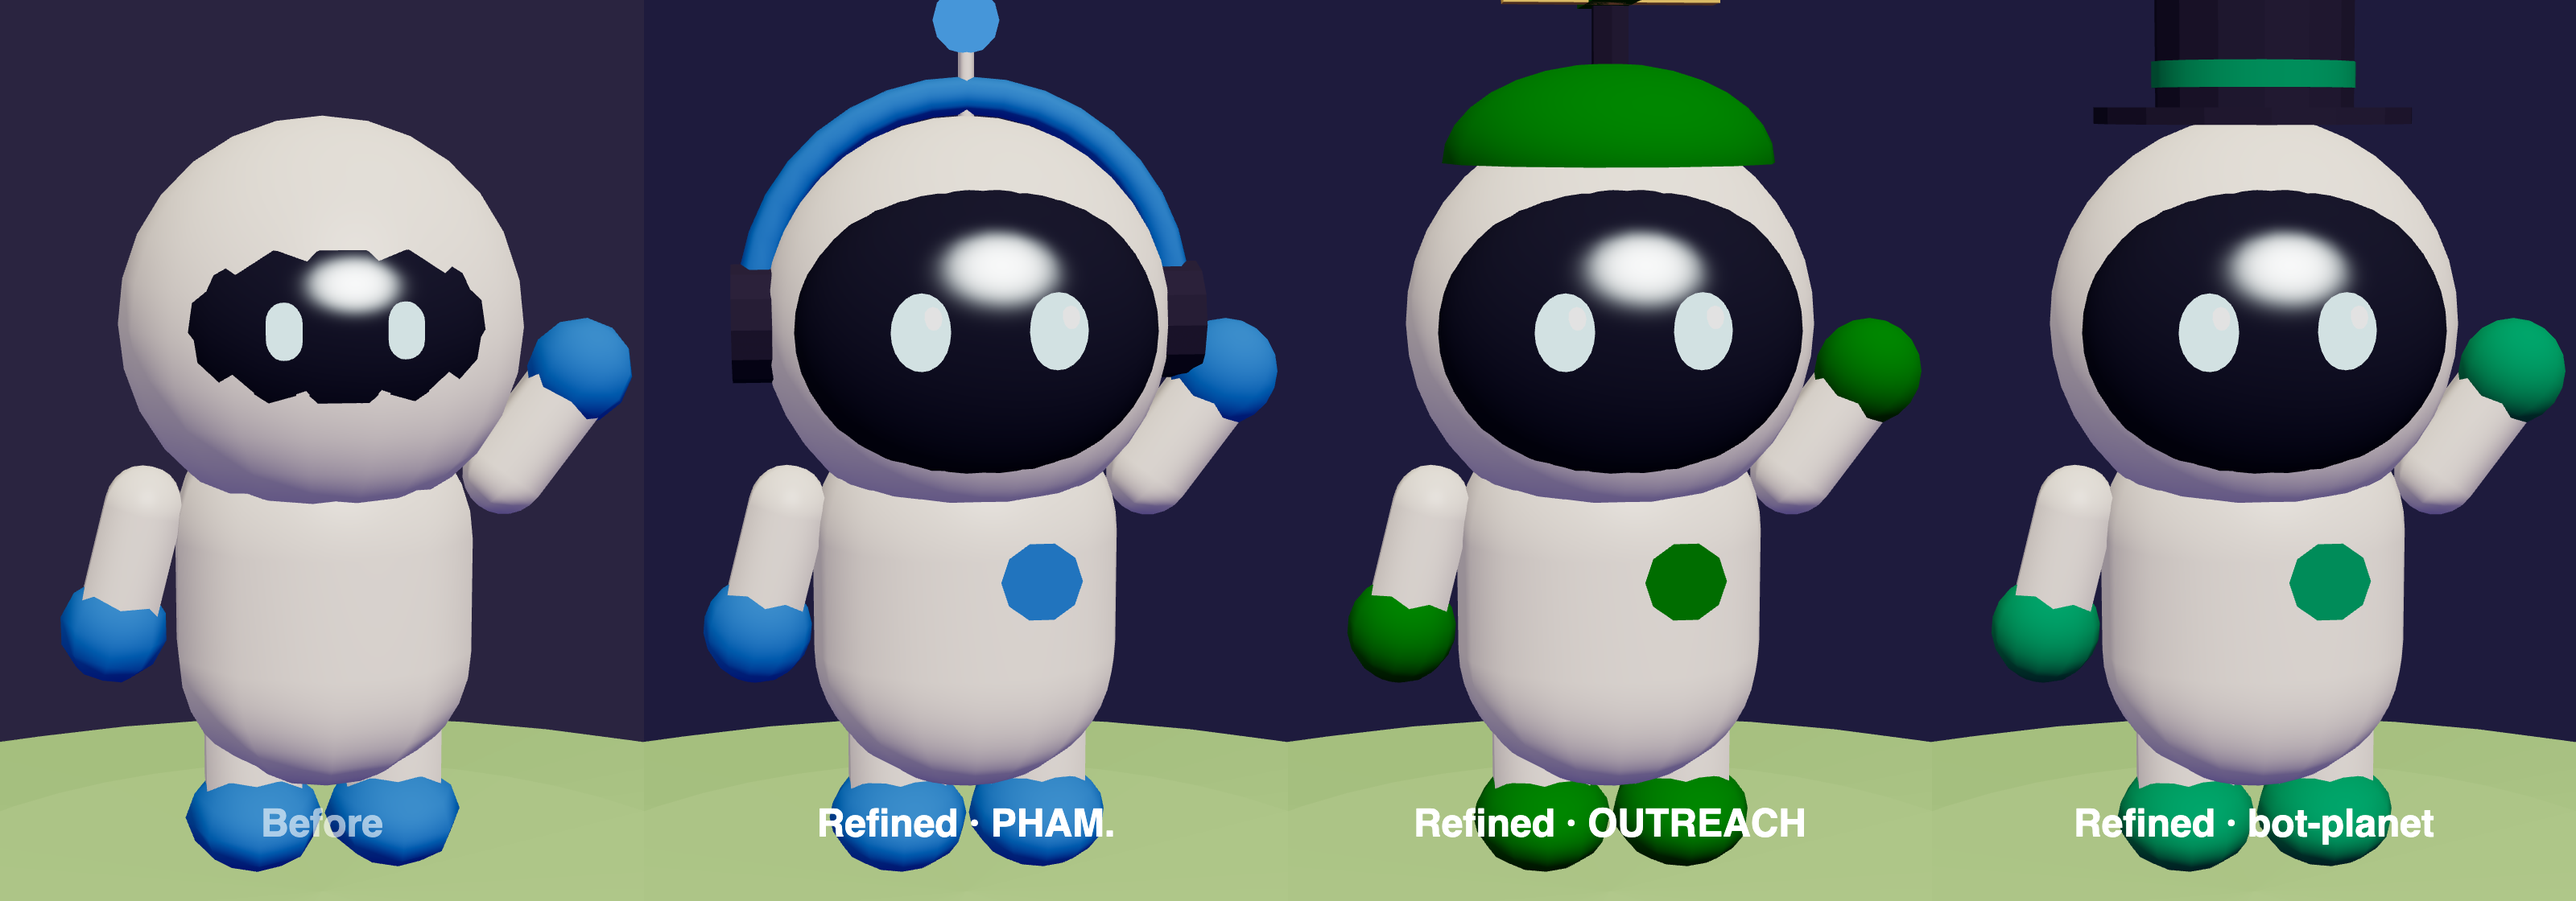
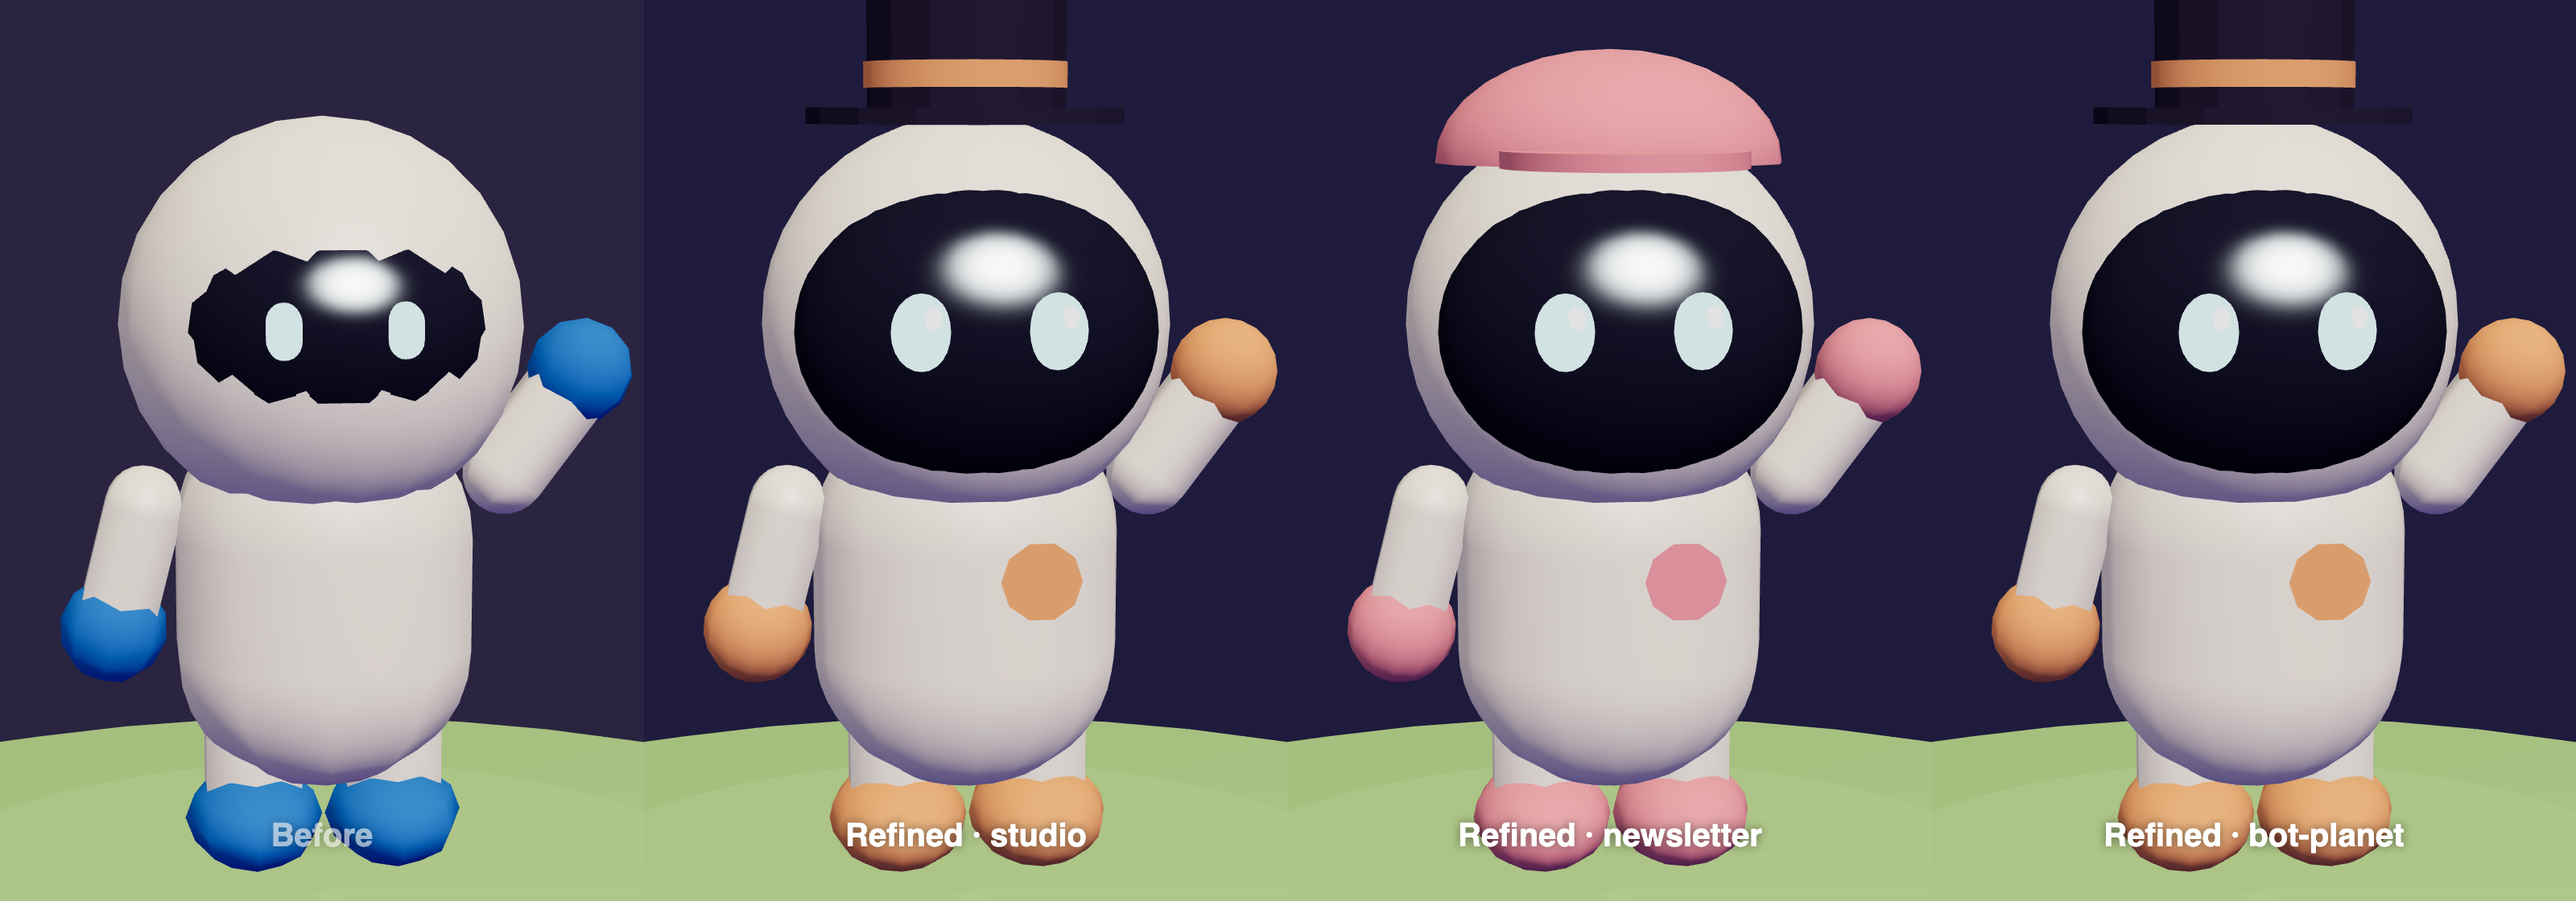
Public-ready: neutral demo crew, postcard footer and example names
Swap personal project and client names in the demo crew, postcard footer,
crew-manager starter projects, test pages and the README image for
neutral examples.

diff --git a/web/app.js b/web/app.js
@@ -291,7 +291,7 @@ function syncVillage(v) {
 /**
  * Cowork sessions outside a Cowork project are grouped by folder, which gives lots of tiny groups.
  * Fold each one-session folder group (that you haven't named) into the group owning its parent
- * folder, e.g. "Projects/Maria 01" → "Projects". Groups that end up with the same name share a house.
+ * folder, e.g. "Projects/Client A" → "Projects". Groups that end up with the same name share a house.
  */
 function foldCowork(groups) {
   const out = groups.map((g) => ({ ...g, sessions: [...g.sessions], folders: [...(g.folders || [])] }));
@@ -369,19 +369,19 @@ let current = [];
 const forceDemo = params.has('demo');
 
 const DEMO_CREW = [
-  ['phamcreative-site', 'Tighten the /helsinki hero spacing', 'working', 'Edit'],
-  ['medieval-rts', 'Pathfinding for cavalry units', 'help', ''],
-  ['taste-shift', 'Stage 4: drift timeline chart', 'working', 'Bash'],
-  ['sticker-smash', 'Render the promo video frames', 'done', ''],
-  ['linkedin-network', 'Cluster labels overlap fix', 'idle', ''],
+  ['portfolio-site', 'Tighten the hero spacing', 'working', 'Edit'],
+  ['tower-defense', 'Pathfinding for flying units', 'help', ''],
+  ['music-stats', 'Drift timeline chart', 'working', 'Bash'],
+  ['sticker-game', 'Render the promo video frames', 'done', ''],
+  ['network-map', 'Cluster labels overlap fix', 'idle', ''],
   ['bot-planet', 'Notch island + camp board', 'working', 'Task'],
-  ['pham-outreach', 'Draft Slush follow-ups', 'working', 'WebSearch'],
-  ['knowledge', 'Update pricing rules', 'done', ''],
-  ['castle-tracker', 'Fix the save-slot bug', 'working', 'Read'],
+  ['newsletter', 'Draft the conference follow-ups', 'working', 'WebSearch'],
+  ['notes', 'Tidy the reading list', 'done', ''],
+  ['garden-journal', 'Fix the save-slot bug', 'working', 'Read'],
 ];
 const DEMO_TOOLS = ['Edit', 'Bash', 'Read', 'Grep', 'WebSearch', 'TodoWrite', 'Task', 'Write', 'mcp__figma__get_screenshot', ''];
 const DEMO_DETAIL = {
-  Edit: 'hero.tsx', Bash: 'npm test', Read: 'README.md', Grep: '“notch”', WebSearch: '“slush 2026 exhibitors”',
+  Edit: 'hero.tsx', Bash: 'npm test', Read: 'README.md', Grep: '“notch”', WebSearch: '“conference 2026 speakers”',
   TodoWrite: 'Wiring the camp board', Task: 'Explore the repo', Write: 'village.mjs', mcp__figma__get_screenshot: 'figma: get_screenshot',
 };
 const DEMO_ASKS = ['Claude needs your permission to use Bash', 'Has a question for you', 'Wants you to approve a plan', 'Claude needs your permission to use Write'];

diff --git a/scripts/v4-test.html b/scripts/v4-test.html
@@ -47,9 +47,9 @@ const sats = createSatellites({ world: W.world, scene });
 const now = Date.now();
 const V = { projects: [
   { key: '/a/bot-planet', name: 'bot-planet', turns: 300, edits: 200, lastAt: now - 3600e3 },
-  { key: '/a/outreach', name: 'PHAM outreach', turns: 120, edits: 60, lastAt: now - 3 * 86400e3 },
+  { key: '/a/outreach', name: 'Newsletter', turns: 120, edits: 60, lastAt: now - 3 * 86400e3 },
   { key: '/a/garden', name: 'Garden journal', turns: 45, edits: 30, lastAt: now - 2 * 3600e3 },
-  { key: '/a/fact', name: 'Facturen', turns: 20, edits: 10, lastAt: now - 5 * 86400e3 },
+  { key: '/a/fact', name: 'Invoices', turns: 20, edits: 10, lastAt: now - 5 * 86400e3 },
   { key: '/a/secret', name: 'Secret thing', turns: 60, edits: 10, lastAt: now - 3600e3 },
 ] };
 let customObj = {};
@@ -67,8 +67,8 @@ const env = {
   seatDir: (i) => W.seats[Math.max(0, i)].dir, homeDir: (n) => village.homeOf(n), homeSpot: (n, i) => village.homeSpot(n, i),
 };
 const STAT = [
-  ['idle', 'bot-planet', now - 60e3], ['working', 'bot-planet', now - 60e3], ['help', 'PHAM outreach', now - 60e3],
-  ['done', 'Garden journal', now - 60e3], ['idle', 'Facturen', now - 30 * 60e3], ['working', 'Garden journal', now - 12 * 60e3],
+  ['idle', 'bot-planet', now - 60e3], ['working', 'bot-planet', now - 60e3], ['help', 'Newsletter', now - 60e3],
+  ['done', 'Garden journal', now - 60e3], ['idle', 'Invoices', now - 30 * 60e3], ['working', 'Garden journal', now - 12 * 60e3],
 ];
 const agents = STAT.map(([status, name, t], i) => {
   const a = new Astronaut({ id: 's' + i, name, status, tool: status === 'working' ? 'Read' : '', since: t, updated: t, subagents: [] }, env, offsetDir(W.campDir, i, 0.2));

diff --git a/scripts/v5-terrain.html b/scripts/v5-terrain.html
@@ -47,9 +47,9 @@ const sats = createSatellites({ world: W.world, scene });
 const now = Date.now();
 const V = { projects: [
   { key: '/a/bot-planet', name: 'bot-planet', turns: 300, edits: 200, lastAt: now - 3600e3 },
-  { key: '/a/outreach', name: 'PHAM outreach', turns: 120, edits: 60, lastAt: now - 3 * 86400e3 },
+  { key: '/a/outreach', name: 'Newsletter', turns: 120, edits: 60, lastAt: now - 3 * 86400e3 },
   { key: '/a/garden', name: 'Garden journal', turns: 45, edits: 30, lastAt: now - 2 * 3600e3 },
-  { key: '/a/fact', name: 'Facturen', turns: 20, edits: 10, lastAt: now - 5 * 86400e3 },
+  { key: '/a/fact', name: 'Invoices', turns: 20, edits: 10, lastAt: now - 5 * 86400e3 },
   { key: '/a/secret', name: 'Secret thing', turns: 60, edits: 10, lastAt: now - 3600e3 },
 ] };
 let customObj = {};
@@ -67,8 +67,8 @@ const env = {
   seatDir: (i) => W.seats[Math.max(0, i)].dir, homeDir: (n) => village.homeOf(n), homeSpot: (n, i) => village.homeSpot(n, i),
 };
 const STAT = [
-  ['idle', 'bot-planet', now - 60e3], ['working', 'bot-planet', now - 60e3], ['help', 'PHAM outreach', now - 60e3],
-  ['done', 'Garden journal', now - 60e3], ['idle', 'Facturen', now - 30 * 60e3], ['working', 'Garden journal', now - 12 * 60e3],
+  ['idle', 'bot-planet', now - 60e3], ['working', 'bot-planet', now - 60e3], ['help', 'Newsletter', now - 60e3],
+  ['done', 'Garden journal', now - 60e3], ['idle', 'Invoices', now - 30 * 60e3], ['working', 'Garden journal', now - 12 * 60e3],
 ];
 const agents = STAT.map(([status, name, t], i) => {
   const a = new Astronaut({ id: 's' + i, name, status, tool: status === 'working' ? 'Read' : '', since: t, updated: t, subagents: [] }, env, offsetDir(W.campDir, i, 0.2));

diff --git a/index.html b/index.html
@@ -296,7 +296,7 @@
   <p class="subs" id="c-subs"></p>
   <p class="cwd" id="c-cwd"></p>
   <div class="cmd" id="c-cmd-row"><code id="c-cmd"></code><button id="c-copy">Copy</button><button id="c-open" class="primary" hidden>Open ↗</button></div>
-  <div class="work" id="c-work-row" hidden><input id="c-work-label" maxlength="60" placeholder="What is it working on? e.g. South Africa proposal" /><button id="c-work-btn" class="primary">▶ Working on it</button></div>
+  <div class="work" id="c-work-row" hidden><input id="c-work-label" maxlength="60" placeholder="What is it working on? e.g. Client proposal" /><button id="c-work-btn" class="primary">▶ Working on it</button></div>
   <div class="move" id="c-move-row" hidden><label for="c-move">Move to project</label><select id="c-move"></select></div>
   <div class="actions" id="c-actions"></div>
 </div>

diff --git a/web/routines.js b/web/routines.js
@@ -59,7 +59,7 @@ export function nextRun(expr, tz, from = Date.now()) {
 }
 
 // ── wording ──────────────────────────────────────────────────────────
-export const shortName = (n) => String(n).replace(/^PHAM\s+(Outreach|Rhythm)\s*[:—-]\s*/i, '').replace(/\s*\(.*\)\s*$/, '');
+export const shortName = (n) => String(n).replace(/^[^:—]{2,24}\s+(Outreach|Rhythm)\s*[:—-]\s*/i, '').replace(/\s*\(.*\)\s*$/, '');
 const hhmm = (t) => new Date(t).toLocaleTimeString([], { hour: '2-digit', minute: '2-digit' });
 const DAY = ['Sun', 'Mon', 'Tue', 'Wed', 'Thu', 'Fri', 'Sat'];
 /** "weekdays · 09:00, 14:00" in *your* local time, read off the next fires. */

diff --git a/web/refined.html b/web/refined.html
@@ -44,8 +44,8 @@ function before() {
 
 const cells = [
   { label: 'Before', make: () => before() },
-  { label: 'Refined · PHAM.', data: { id: 'a', name: 'PHAM.', status: 'idle' } },
-  { label: 'Refined · OUTREACH', data: { id: 'b', name: 'OUTREACH', status: 'idle' } },
+  { label: 'Refined · studio', data: { id: 'a', name: 'studio', status: 'idle' } },
+  { label: 'Refined · newsletter', data: { id: 'b', name: 'newsletter', status: 'idle' } },
   { label: 'Refined · bot-planet', data: { id: 'c', name: 'bot-planet', status: 'idle' } },
 ];
 const labels = [];

diff --git a/scripts/landmarks-test.html b/scripts/landmarks-test.html
@@ -47,7 +47,7 @@ const controls = new OrbitControls(camera, renderer.domElement);
 
 // 5 fake plots spread around the camp, one per theme
 const NAMES = [
-  ['PHAM outreach', '#3987e5'], ['Proposals', '#d95926'], ['bot-planet', '#199e70'], ['Facturen', '#c98500'], ['Garden journal', '#d55181'],
+  ['Newsletter', '#3987e5'], ['Proposals', '#d95926'], ['bot-planet', '#199e70'], ['Invoices', '#c98500'], ['Garden journal', '#d55181'],
 ];
 const plots = [];
 let tries = 0;

diff --git a/web/postcard.js b/web/postcard.js
@@ -226,7 +226,7 @@ export async function makePostcard({ renderer, scene, camera, logbook = null, pa
   g.textAlign = 'center';
   g.fillStyle = 'rgba(255, 255, 255, 0.42)';
   g.font = font(600, 24);
-  g.fillText('made with Claude · PHAM. Creative', W / 2, H - 34);
+  g.fillText('made with Claude · Bot Planet', W / 2, H - 34);
 
   return c.toDataURL('image/png');
 }

diff --git a/README.md b/README.md
@@ -24,7 +24,7 @@ A cozy low-poly planet that lives in your MacBook's camera notch. Hover the notc
 Open it with 👥 in the notch or from the menu-bar icon: a full window for sorting out your crew.
 
 - **Projects:** every project Bot Planet knows about. Pick its colour (one of 8 presets or any colour you like), hat and landmark, place it on a small globe, hide it, or remove it (with undo). Removing never touches your files or chats.
-- **Agents:** a grid of every agent as a 3D portrait, showing what it's doing. Name agents, or move them into a project, including new ones like "Proposals" or "Facturen".
+- **Agents:** a grid of every agent as a 3D portrait, showing what it's doing. Name agents, or move them into a project, including new ones like "Proposals" or "Invoices".
 - **📍 Show on planet:** opens the notch and flies the camera to that agent or project.
 - **Usage:** your plan usage over the last 7 days (the 5-hour window and the week), plus Claude Code tokens per day.
 

diff --git a/docs/CONTRACT.md b/docs/CONTRACT.md
@@ -76,7 +76,7 @@ Without `window.botPlanet` (a plain browser), the page handles hover itself, so 
 type CoworkGroup = {
   key: string;          // 'space:<spaceId>' or 'folder:<abs path>' (sessions with no Cowork project)
   name: string;         // names[key] ?? defaultName
-  defaultName: string;  // basename of the group's most common folder ("PHAM. Creative", "OUTREACH")
+  defaultName: string;  // basename of the group's most common folder ("Studio", "Newsletter")
   named: boolean;       // true when the user has named it
   sessions: string[];   // remote Cowork session ids (session_01…), after user re-assignments
   folders: string[];    // distinct folders, most common first
